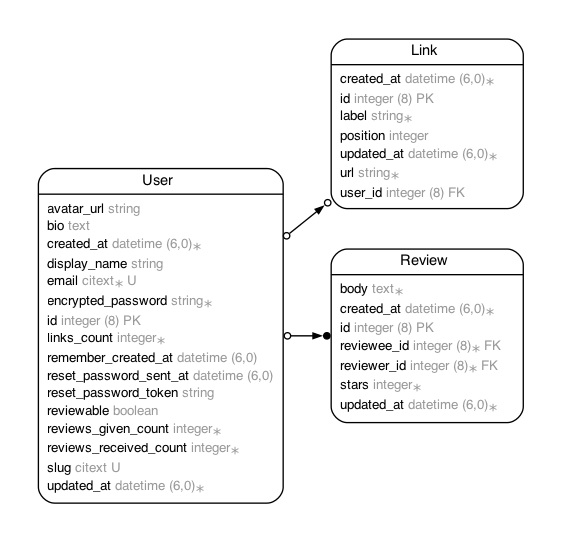
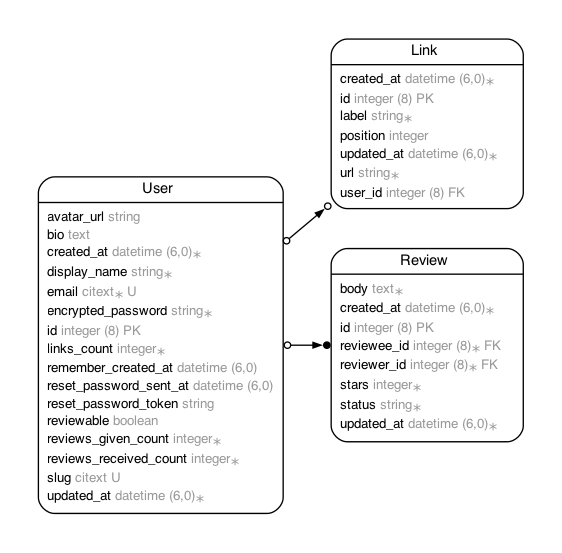
Merge pull request #35 from ghewitt95/gh-review-moderation
Add status enum to reviews for moderation

Pull request: Add status enum to reviews for moderation
- Add reviews.status column (string, default: published, null: false)
- Index on status column for fast published-scope filtering
- Rails enum on Review#status: published, flagged, hidden
- Scope public profile pages to only show published reviews
- Reviewee dashboard remains unscoped so they can see all moderated state

UI for flagging/hiding will be a follow-up phase.

diff --git a/app/models/review.rb b/app/models/review.rb
@@ -5,6 +5,7 @@
 #  id          :bigint           not null, primary key
 #  body        :text
 #  stars       :integer
+#  status      :string           default("published"), not null
 #  created_at  :datetime         not null
 #  updated_at  :datetime         not null
 #  reviewee_id :bigint           not null
@@ -15,6 +16,7 @@
 #  index_reviews_on_reviewee_id                  (reviewee_id)
 #  index_reviews_on_reviewer_id                  (reviewer_id)
 #  index_reviews_on_reviewer_id_and_reviewee_id  (reviewer_id,reviewee_id) UNIQUE
+#  index_reviews_on_status                       (status)
 #
 # Foreign Keys
 #
@@ -26,6 +28,12 @@ class Review < ApplicationRecord
   scope :positive, -> { where("stars >= ?", 4) }
   belongs_to :reviewer, class_name: "User", counter_cache: :reviews_given_count
   belongs_to :reviewee, class_name: "User", counter_cache: :reviews_received_count
+
+  enum :status, {
+    published: "published",
+    flagged: "flagged",
+    hidden: "hidden"
+  }, default: "published"
 
   validates :stars, presence: true, inclusion: { in: 1..5 }
   validates :body, presence: true, length: { minimum: 10, maximum: 1000 }

diff --git a/db/migrate/20260513124518_add_status_to_reviews.rb b/db/migrate/20260513124518_add_status_to_reviews.rb
@@ -1,0 +1,6 @@
+class AddStatusToReviews < ActiveRecord::Migration[8.0]
+  def change
+    add_column :reviews, :status, :string, default: "published", null: false
+    add_index :reviews, :status
+  end
+end

diff --git a/db/schema.rb b/db/schema.rb
@@ -10,7 +10,7 @@
 #
 # It's strongly recommended that you check this file into your version control system.
 
-ActiveRecord::Schema[8.0].define(version: 2026_05_13_024652) do
+ActiveRecord::Schema[8.0].define(version: 2026_05_13_124518) do
   # These are extensions that must be enabled in order to support this database
   enable_extension "citext"
   enable_extension "pg_catalog.plpgsql"
@@ -32,9 +32,11 @@ ActiveRecord::Schema[8.0].define(version: 2026_05_13_024652) do
     t.datetime "updated_at", null: false
     t.bigint "reviewer_id", null: false
     t.bigint "reviewee_id", null: false
+    t.string "status", default: "published", null: false
     t.index ["reviewee_id"], name: "index_reviews_on_reviewee_id"
     t.index ["reviewer_id", "reviewee_id"], name: "index_reviews_on_reviewer_id_and_reviewee_id", unique: true
     t.index ["reviewer_id"], name: "index_reviews_on_reviewer_id"
+    t.index ["status"], name: "index_reviews_on_status"
   end
 
   create_table "solid_cable_messages", force: :cascade do |t|

diff --git a/app/controllers/profiles_controller.rb b/app/controllers/profiles_controller.rb
@@ -6,7 +6,7 @@ class ProfilesController < ApplicationController
     if @freelancer.nil?
       redirect_to root_path, alert: "Profile not found."
     else
-      @reviews = @freelancer.reviews_received.recent
+      @reviews = @freelancer.reviews_received.published.recent
       @new_review = Review.new
     end
   end